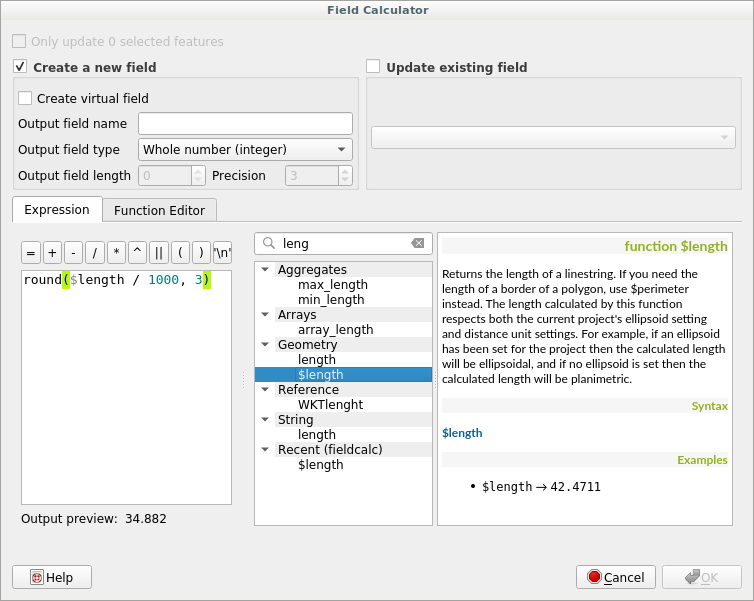
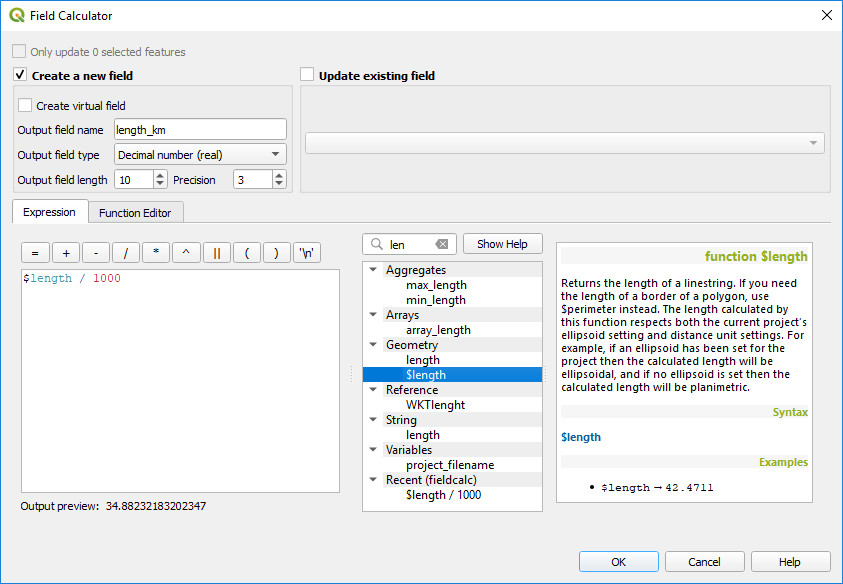
Add some tips for expression
* Add comment and show values panel when hidden
* Update concerned screenshots
* Update and complete field calculator description to match the screenshot and use appropriate roles

diff --git a/source/docs/user_manual/working_with_vector/expression.rst b/source/docs/user_manual/working_with_vector/expression.rst
@@ -114,6 +114,37 @@ using functions, layer's fields and values. It contains following widgets:
   * *Marker*: for every other error (eg, missing parenthesis, unexpected
     character) at a single location.
 
+  .. tip:: **Document your expression with comments**
+
+    When using complex expression, it may be a good practice to add
+    texts either as a multiline or inline comments to help you remember.
+
+    .. code-block:: sql
+
+      /*
+      Labels each region with its highest (in altitude) airport(s)
+      and altitude, eg 'AMBLER : 264m' for 'Northwest Artic' region
+      */
+      with_variable(
+        'airport_alti', -- stores the highest altitude of the region
+        aggregate(
+          'airports',
+          'max',
+          "ELEV", -- the field containing the altitude
+          -- and limit the airports to the region they are within
+          filter := within( $geometry, geometry( @parent ) )
+        ),
+          aggregate( -- finds airports at the same altitude in the region 
+            'airports',
+            'concatenate',
+            "NAME",
+            filter := within( $geometry, geometry( @parent ) )
+              and "ELEV" = @airport_alti
+          )
+          || ' : ' || @airport_alti || 'm'
+          -- using || allows to skip regions without airport
+      )
+
 * Under the expression editor, an :guilabel:`Output preview` displays the result
   of the expression evaluated on the first feature of the layer. In case of
   error, it indicates it and you can access details with the provided hyperlink.
@@ -122,14 +153,21 @@ using functions, layer's fields and values. It contains following widgets:
   find a particular function or field.
   Double-clicking an item adds it to the expression editor.
 * A help panel displays help for each selected item in the function selector.
+
+  .. tip::
+
+   Press :kbd:`Ctrl+Click` when hovering a function name in an expression to
+   automatically display its help in the dialog.
+
 * A field's values widget shown when a field is selected in the function selector
   helps to fetch features attributes. Double-clicking a value adds it to the
   expression editor.
 
 .. tip::
 
- Press :kbd:`Ctrl+Click` when hovering over a function name in an expression to
- automatically display its help in the dialog.
+   Sometimes, the right panel showing functions help or field values can be
+   collapsed, hence invisible in the dialog. Press the :guilabel:`Show Values`
+   or :guilabel:`Show Help` button to get it back.
 
 .. _figure_expression_tab:
 

diff --git a/source/docs/user_manual/working_with_vector/attribute_table.rst b/source/docs/user_manual/working_with_vector/attribute_table.rst
@@ -512,13 +512,15 @@ A short example illustrates how field calculator works when using the
    |calculateField| :sup:`Field Calculator` dialog.
 #. Select the |checkbox| :guilabel:`Create a new field` checkbox to save the
    calculations into a new field.
-#. Add ``length`` as Output field name and ``real`` as Output field type, and
-   define Output field length to be 10 and Precision, 3.
-#. Now double click on function ``$length`` in the :guilabel:`Geometry` group
+#. Add ``length_km`` as :guilabel:`Output field name`
+#. Define the :guilabel:`Output field type` as ``Decimal number (real)``
+#. Set the :guilabel:`Output field length` to ``10`` and the :guilabel:`Precision`
+   to ``3``
+#. Double click the ``$length`` function in the :guilabel:`Geometry` group
    to add it into the Field calculator expression box.
 #. Complete the expression by typing ``/ 1000`` in the Field calculator
    expression box and click :guilabel:`OK`.
-#. You can now find a new field ``length`` in the attribute table.
+#. You can now find a new :guilabel:`length_km` field in the attribute table.
 
 .. _virtual_field:
 
